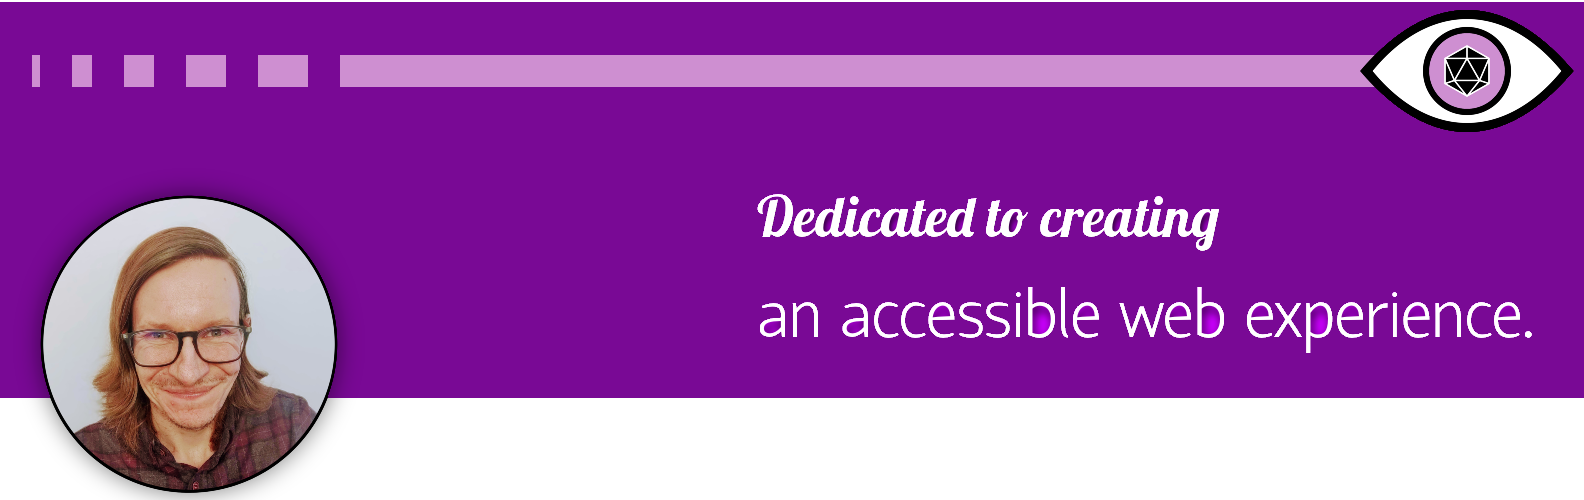
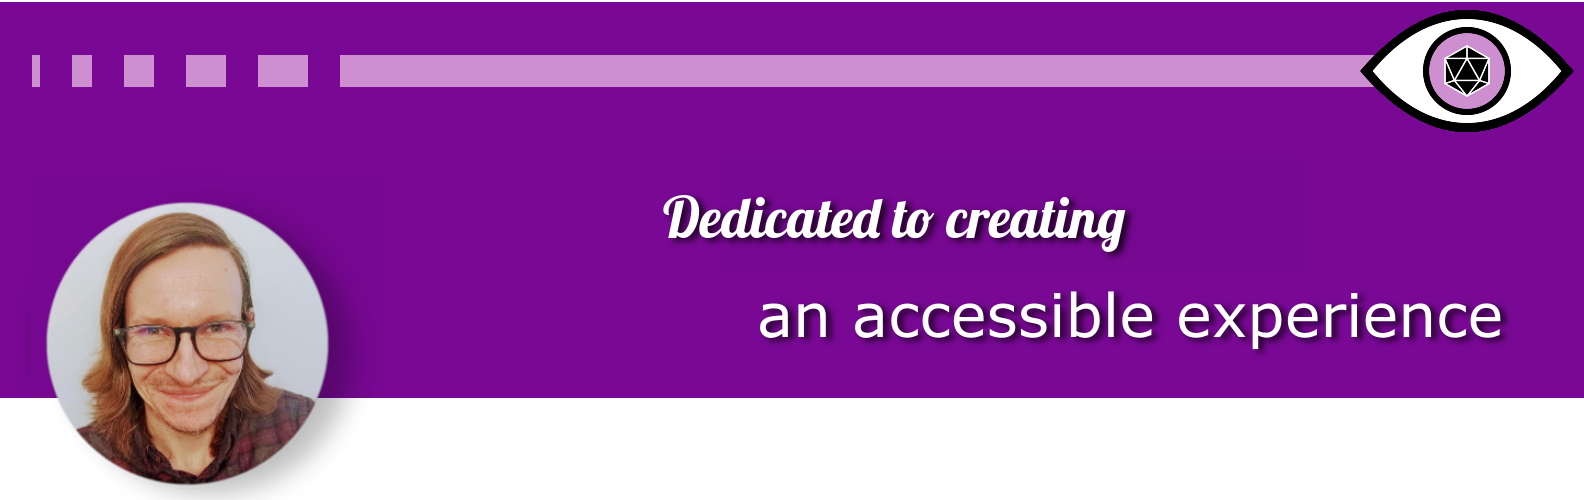
Update info and graphic

Changed region(s): [[0.0, 0.39, 0.2165, 1.0], [0.464, 0.57, 0.959, 0.72], [0.4021, 0.39, 0.7734, 0.51]]

diff --git a/README.md b/README.md
@@ -1,11 +1,11 @@
-<img alt="A banner with the text, 'dedicated to creating an accessible web experience.'" src="./gitbanner.png">
+<img alt="A banner with the text, 'dedicated to creating an accessible experience.'" src="./gitbanner.png">
 
 <a href="mailto:ejo10488@gmail.com"><img alt="Gmail" src="https://img.shields.io/badge/Gmail-D14836?style=for-the-badge&logo=gmail&logoColor=white" /></a>
 <a href="https://www.linkedin.com/in/ericolkowski/"><img alt="LinkedIn" src="https://img.shields.io/badge/linkedin%20-%230077B5.svg?&style=for-the-badge&logo=linkedin&logoColor=white" /></a>
 <br><br>
 <h2 align="center">My name is Eric (he/him). N-eyes to meet you! :eyeglasses:</h2>
 
-I'm a Front-End Web Developer, focused on making apps as accessible as possible. As someone with an eye disease, having accessible features in an app can be a huge deal for me. Understanding how certain features affect others with impairments or disabilties is something I am constantly researching and wanting to expand my knowledge of. My goal with any project I create is to make it as accessible as possible.
+I'm a Software Engineer with a focus on accessibility. As someone with an eye disease, having accessible features can be a huge deal for me. Understanding how certain features affect others with impairments or disabilties is something I am constantly researching and wanting to expand my knowledge of. My goal with any project I create is to make it as accessible as possible.
 
 The great thing about learning more and more about accessibility is that not once have I ever felt like I wasn't doing enough, or that I had to cater to every accessibility feature out there immediately. I understand that I am learning and growing, and I'll know more tomorrow than I do today. A particular quote that I think more people should understand about making things more accessible, especially if they're just starting to do so:
 
@@ -15,24 +15,14 @@ The great thing about learning more and more about accessibility is that not onc
 
 <br>
 
-Beyond my personal goal of learning about (and helping others better understand) accessibility, I also have experience with React (both class components with lifecycle methods and functional components with hooks), asyncrhonous JavaScript (async/await and Promises), webpack and modules, and team-based programming by taking part in [The Odin Project](https://www.theodinproject.com/)'s first gamejam. 
-
----
-
-### Currently...
-
-I'm expanding my skills in creating accessible-friendly apps (does this belong here or the "from now until forever" section?), and will soon be diving into learning more about test driven development.
-
-Beyond expanding my skills and knowledge, I'm a member of The Odin Project and its Discord server, where I help other members and receive help from an incredible community, am part of a book club for You Don't Know JavaScript 1st Edition, and make contributions to the Odin Project repos.
+Beyond my personal goal of learning about (and helping others better understand) accessibility, I also work for Red Hat on their [Patternfly](https://www.patternfly.org/v4/) team, and am a maintainer for the [The Odin Project](https://www.theodinproject.com/). 
 
 ---
 
 ### Future Plans...
 
-- Expand my back-end knowledge to evolve from a front-end dev to a full-stack dev.
+- Expand my back-end knowledge to evolve from strictly front-end work.
 - Continue making contributions to The Odin Project, and look for other open source contribution opportunities.
-- Continue to work on the aesthetic side of my apps in parallel with the accessibility side.
-- Delve into one of the many CSS frameworks available.
 - Checkoff some of the personal project ideas on my to-do list, including a D&D character builder for homebrew settings.
 
 ---
